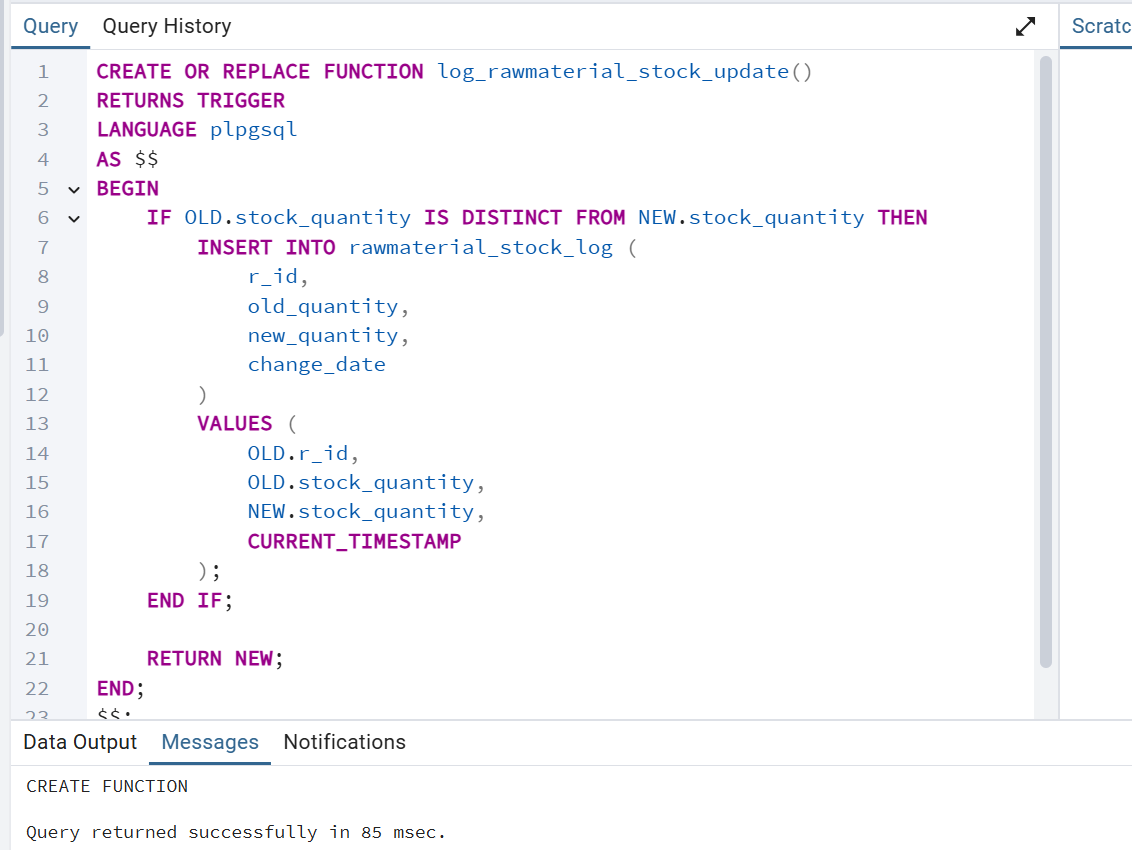
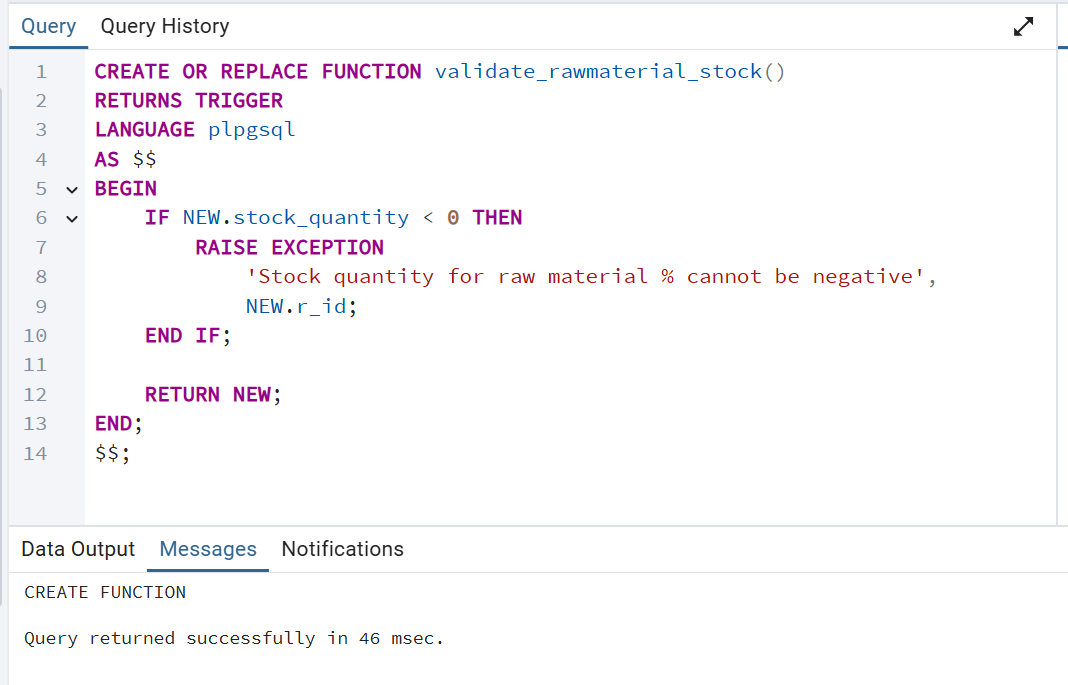
Complete Stage 4 PLpgSQL implementation

diff --git a/README.md b/README.md
@@ -3215,75 +3215,58 @@ WHERE order_id = 501;
 <summary><b> טריגר 2 – תיעוד אוטומטי של שינויים במלאי חומרי גלם</b></summary>
 
 
-## טריגר 2 – תיעוד אוטומטי של שינויים במלאי חומרי גלם
+## טריגר 2-מלאי חומרי הגלם לא יכול להיות שלילי 
 
 הטריגר:
 
 ```text
-trg_log_rawmaterial_stock_update
+trg_validate_rawmaterial_stock
 ```
 
 משתמש בפונקציית הטריגר:
 
 ```text
-log_rawmaterial_stock_update
+validate_rawmaterial_stock
 ```
 
-מטרת הטריגר היא לתעד כל שינוי בכמות המלאי של חומר גלם בטבלת `rawmaterial`.
+מטרת הטריגר היא לאכוף חוק עסקי בטבלת `rawmaterial`, כך שכמות המלאי של חומר גלם לא יכולה להיות שלילית.
 
-כאשר מתבצע עדכון לעמודה `stock_quantity`, הטריגר מופעל ובודק האם כמות המלאי אכן השתנתה.
+הטריגר מופעל לפני כל פעולת `INSERT` או `UPDATE` על העמודה `stock_quantity`.
 
-אם כמות המלאי השתנתה, הטריגר מוסיף רשומה חדשה לטבלת `rawmaterial_stock_log`, הכוללת את מזהה חומר הגלם, כמות המלאי הישנה, כמות המלאי החדשה וזמן ביצוע השינוי.
+כאשר מתבצע עדכון או הוספה של חומר גלם, פונקציית הטריגר בודקת את הערך החדש של `stock_quantity`.
 
-באופן זה ניתן לעקוב אחר שינויי מלאי שבוצעו במערכת ולשמור היסטוריה של עדכוני המלאי.
+אם הערך החדש קטן מ־0, הטריגר מונע את ביצוע הפעולה וזורק הודעת שגיאה מתאימה.
+
+אם הערך תקין, הפעולה ממשיכה כרגיל והנתונים נשמרים במסד הנתונים.
+
+באופן זה נשמרת תקינות הנתונים במערכת ונמנעת האפשרות ליצור מצב שבו מלאי של חומר גלם יהיה שלילי, דבר שאינו הגיוני מבחינה עסקית.
+
 
 ### קוד הטריגר
-
-```sql
-CREATE TABLE rawmaterial_stock_log (
-    log_id SERIAL PRIMARY KEY,
-    r_id INT NOT NULL,
-    old_quantity INT,
-    new_quantity INT,
-    change_date TIMESTAMP DEFAULT CURRENT_TIMESTAMP
-);
-
-CREATE OR REPLACE FUNCTION log_rawmaterial_stock_update()
+CREATE OR REPLACE FUNCTION validate_rawmaterial_stock()
 RETURNS TRIGGER
 LANGUAGE plpgsql
 AS $$
 BEGIN
-    IF OLD.stock_quantity IS DISTINCT FROM NEW.stock_quantity THEN
-        INSERT INTO rawmaterial_stock_log (
-            r_id,
-            old_quantity,
-            new_quantity,
-            change_date
-        )
-        VALUES (
-            OLD.r_id,
-            OLD.stock_quantity,
-            NEW.stock_quantity,
-            CURRENT_TIMESTAMP
-        );
+    IF NEW.stock_quantity < 0 THEN
+        RAISE EXCEPTION
+            'Stock quantity for raw material % cannot be negative',
+            NEW.r_id;
     END IF;
 
     RETURN NEW;
 END;
 $$;
 
-CREATE TRIGGER trg_log_rawmaterial_stock_update
-AFTER UPDATE OF stock_quantity
+DROP TRIGGER IF EXISTS trg_validate_rawmaterial_stock ON rawmaterial;
+
+CREATE TRIGGER trg_validate_rawmaterial_stock
+BEFORE INSERT OR UPDATE OF stock_quantity
 ON rawmaterial
 FOR EACH ROW
-EXECUTE FUNCTION log_rawmaterial_stock_update();
-```
+EXECUTE FUNCTION validate_rawmaterial_stock();
 
-### יצירת טבלת הלוג
 
-טבלת הלוג נוצרה בהצלחה ב־pgAdmin.
-
-![Create RawMaterial Stock Log](DBProject/dbFiles/trigger2_log_table_create.png)
 
 ### יצירת פונקציית הטריגר
 
@@ -3299,7 +3282,35 @@ EXECUTE FUNCTION log_rawmaterial_stock_update();
 
 ### הרצת הטריגר
 
-כדי להפעיל את הטריגר, בוצע עדכון לכמות המלאי של חומר גלם שמזההו `1823`:
+כדי לבדוק את הטריגר, בוצע ניסיון לעדכן את כמות המלאי של חומר גלם לערך שלילי:
+
+```sql
+UPDATE rawmaterial
+SET stock_quantity = -10
+WHERE r_id = 1823;
+```
+
+הטריגר הופעל אוטומטית לפני ביצוע העדכון, זיהה שכמות המלאי החדשה שלילית, ועצר את הפעולה באמצעות הודעת שגיאה.
+
+![Run Trigger 2](DBProject/dbFiles/trigger2_run.png)
+
+### בדיקה שהעדכון נחסם
+
+לאחר ניסיון העדכון, נבדקה טבלת `rawmaterial` כדי לוודא שהערך השלילי לא נשמר:
+
+```sql
+SELECT r_id, r_name, stock_quantity
+FROM rawmaterial
+WHERE r_id = 1823;
+```
+
+בתוצאה ניתן לראות שכמות המלאי נשארה תקינה ולא עודכנה לערך שלילי.
+
+![Trigger 2 Check](DBProject/dbFiles/trigger2_check.png)
+
+### בדיקת עדכון תקין
+
+כדי להראות שהטריגר לא חוסם עדכונים תקינים, בוצע עדכון חוקי לכמות המלאי:
 
 ```sql
 UPDATE rawmaterial
@@ -3307,26 +3318,19 @@ SET stock_quantity = stock_quantity + 50
 WHERE r_id = 1823;
 ```
 
-הטריגר הופעל אוטומטית מיד לאחר עדכון כמות המלאי.
-
-![Run Trigger 2](DBProject/dbFiles/trigger2_run.png)
-
-### בדיקת טבלת הלוג
-
-לאחר ביצוע העדכון, נבדקה טבלת הלוג:
+לאחר מכן נבדקה שוב הטבלה:
 
 ```sql
-SELECT *
-FROM rawmaterial_stock_log
-ORDER BY log_id DESC
-LIMIT 5;
+SELECT r_id, r_name, stock_quantity
+FROM rawmaterial
+WHERE r_id = 1823;
 ```
 
-בתוצאה ניתן לראות שנוספה רשומת לוג חדשה עבור חומר גלם מספר `1823`, שבה הכמות הישנה היא `110` והכמות החדשה היא `160`.
+העדכון בוצע בהצלחה מכיוון שכמות המלאי החדשה אינה שלילית.
 
-![Trigger 2 Log Check](DBProject/dbFiles/trigger2_log.png)
+![Trigger 2 Valid Update](DBProject/dbFiles/trigger2_valid_update.png)
 
-הצילומים מוכיחים שהטריגר נוצר בהצלחה, הופעל בעת שינוי כמות מלאי של חומר גלם, והוסיף תיעוד מתאים לטבלת הלוג.
+הצילומים מוכיחים שהטריגר נוצר בהצלחה, הופעל בעת ניסיון עדכון מלאי, מנע הכנסת ערך לא חוקי של מלאי שלילי, ואפשר עדכון תקין כאשר הערך החדש היה חוקי.
 
 
 ## תוכנית ראשית 1 – יצירת הזמנת אספקה על בסיס עלות חומרי גלם
@@ -3538,21 +3542,22 @@ LIMIT 1;
 
 
 <details>
-<summary><b>  תוכנית ראשית  2 </b></summary>
-## תוכנית ראשית  2 – ניהול אוטומטי של חומרי גלם בעלי מלאי נמוך
+<summary><b> תוכנית ראשית 2 </b></summary>
+
+## תוכנית ראשית 2 – ניהול אוטומטי של חומרי גלם בעלי מלאי נמוך
 
 התוכנית הראשית משלבת בין הפונקציה, הפרוצדורה והטריגר שנכתבו בשלב זה.
 
-מטרת התוכנית היא לאתר חומרי גלם בעלי מלאי נמוך, לעדכן את המלאי שלהם באופן אוטומטי ולאחר מכן לתעד את השינויים שבוצעו באמצעות הטריגר.
+מטרת התוכנית היא לאתר חומרי גלם בעלי מלאי נמוך, לעדכן את המלאי שלהם באופן אוטומטי, ולאחר מכן לבדוק שהטריגר מונע הכנסת ערך לא תקין של מלאי שלילי.
 
 התוכנית מבצעת את השלבים הבאים:
 
-1. קוראת לפונקציה `get_low_stock_materials_cursor` ומחזירה Ref Cursor המכיל את כל חומרי הגלם שמלאים נמוך מהסף שנקבע.
+1. קוראת לפונקציה `get_low_stock_materials_cursor` ומחזירה Ref Cursor המכיל את כל חומרי הגלם שהמלאי שלהם נמוך מהסף שנקבע.
 2. עוברת על הרשומות שהוחזרו וסופרת כמה חומרי גלם נמצאו.
 3. קוראת לפרוצדורה `refill_low_stock_materials` אשר מגדילה את המלאי של כל חומרי הגלם שנמצאו.
-4. מבצעת עדכון נוסף לחומר גלם מספר `1823`.
-5. עדכון המלאי מפעיל את הטריגר `trg_log_rawmaterial_stock_update`.
-6. הטריגר מוסיף רשומת תיעוד לטבלת `rawmaterial_stock_log`.
+4. מבצעת עדכון תקין לחומר גלם מספר `1823`.
+5. מנסה לבצע עדכון לא תקין שבו כמות המלאי מוגדרת לערך שלילי.
+6. הטריגר `trg_validate_rawmaterial_stock` מופעל אוטומטית ומונע את העדכון הלא תקין.
 
 ### קוד התוכנית הראשית
 
@@ -3566,6 +3571,7 @@ BEGIN
     -- Call Function 2
     v_cursor := get_low_stock_materials_cursor(200);
 
+    -- Read the Ref Cursor returned by the function
     LOOP
         FETCH v_cursor INTO v_material;
         EXIT WHEN NOT FOUND;
@@ -3573,50 +3579,49 @@ BEGIN
         v_material_count := v_material_count + 1;
     END LOOP;
 
-    RAISE NOTICE
-        'Number of raw materials with stock lower than 200: %',
+    RAISE NOTICE 'Number of raw materials with stock lower than 200: %',
         v_material_count;
 
-    -- Call Procedure 1
+    -- Call Procedure 3
     CALL refill_low_stock_materials(200, 50);
 
-    -- Activate Trigger 1
+    -- Activate Trigger 2 with a valid update
     UPDATE rawmaterial
     SET stock_quantity = stock_quantity + 25
+    WHERE r_id = 1823;
+
+    RAISE NOTICE 'Valid stock update was completed successfully.';
+
+    -- Activate Trigger 2 with an invalid update
+    -- This should fail because stock quantity cannot be negative
+    UPDATE rawmaterial
+    SET stock_quantity = -10
     WHERE r_id = 1823;
 
     RAISE NOTICE 'Main program completed successfully.';
 END;
 $$;
 
+-- Verify updated raw material
 SELECT
     r_id,
     r_name,
     stock_quantity
 FROM rawmaterial
 WHERE r_id = 1823;
-
-SELECT
-    log_id,
-    r_id,
-    old_quantity,
-    new_quantity,
-    change_date
-FROM rawmaterial_stock_log
-ORDER BY log_id DESC
-LIMIT 5;
 ```
 
 ### הרצת התוכנית הראשית
 
-התוכנית הורצה בהצלחה ב־pgAdmin.
+התוכנית הורצה ב־pgAdmin.
 
 במהלך ההרצה:
 
 * הפונקציה איתרה חומרי גלם בעלי מלאי נמוך מ־200.
 * הפרוצדורה הגדילה את המלאי של חומרי הגלם שנמצאו.
-* בוצע עדכון נוסף לחומר גלם מספר `1823`.
-* הטריגר הופעל באופן אוטומטי ותיעד את השינוי בטבלת הלוג.
+* בוצע עדכון תקין לחומר גלם מספר `1823`.
+* לאחר מכן בוצע ניסיון לעדכן את המלאי לערך שלילי.
+* הטריגר הופעל באופן אוטומטי ומנע את העדכון הלא תקין.
 
 ![Main Program Run](DBProject/dbFiles/main_program_run.png)
 
@@ -3633,33 +3638,11 @@ FROM rawmaterial
 WHERE r_id = 1823;
 ```
 
-ניתן לראות שכמות המלאי של חומר הגלם עודכנה בהצלחה.
+ניתן לראות שכמות המלאי של חומר הגלם לא נשמרה כערך שלילי, משום שהטריגר מנע את העדכון הלא תקין.
 
 ![Main Program Material Result](DBProject/dbFiles/main_program_material.png)
 
-### בדיקת טבלת הלוג
-
-לבסוף נבדקה טבלת `rawmaterial_stock_log`.
-
-```sql
-SELECT
-    log_id,
-    r_id,
-    old_quantity,
-    new_quantity,
-    change_date
-FROM rawmaterial_stock_log
-ORDER BY log_id DESC
-LIMIT 5;
-```
-
-בתוצאה ניתן לראות שנוספו רשומות לוג חדשות המתעדות את השינויים שבוצעו בכמויות המלאי.
-
-עבור חומר גלם מספר `1823` ניתן לראות שהכמות השתנתה מ־`210` ל־`235`.
-
-![Main Program Log Result](DBProject/dbFiles/main_program_log.png)
-
-הצילומים מוכיחים שהתוכנית הראשית רצה ללא תקלות, שילבה בהצלחה בין הפונקציה, הפרוצדורה והטריגר, עדכנה את מלאי חומרי הגלם ותיעדה את כל השינויים בטבלת הלוג.
+הצילומים מוכיחים שהתוכנית הראשית שילבה בהצלחה בין הפונקציה, הפרוצדורה והטריגר, עדכנה מלאי בצורה תקינה, והפעילה את הטריגר שמנע הכנסת ערך לא חוקי של מלאי שלילי.
 </details>
 
 
